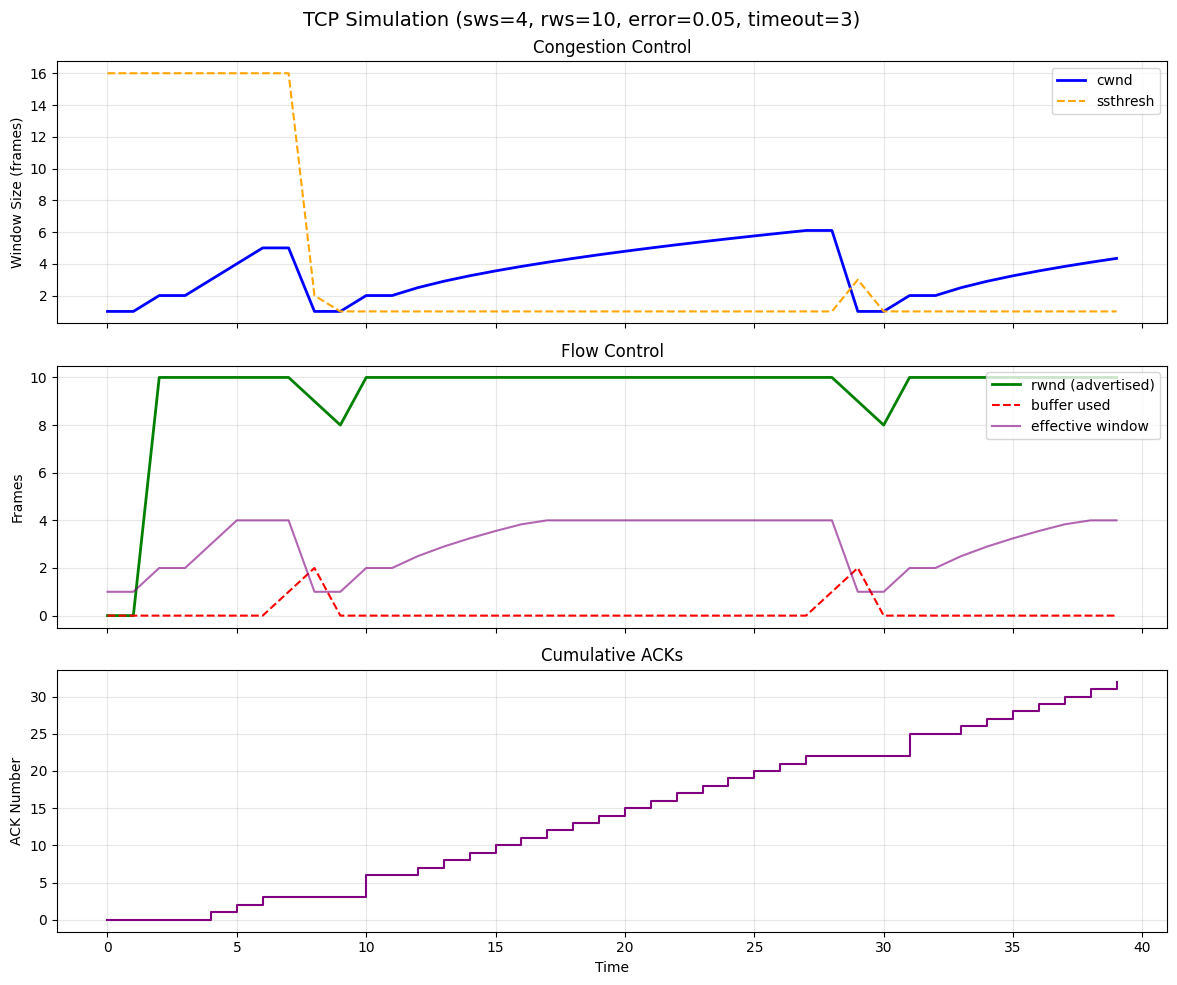
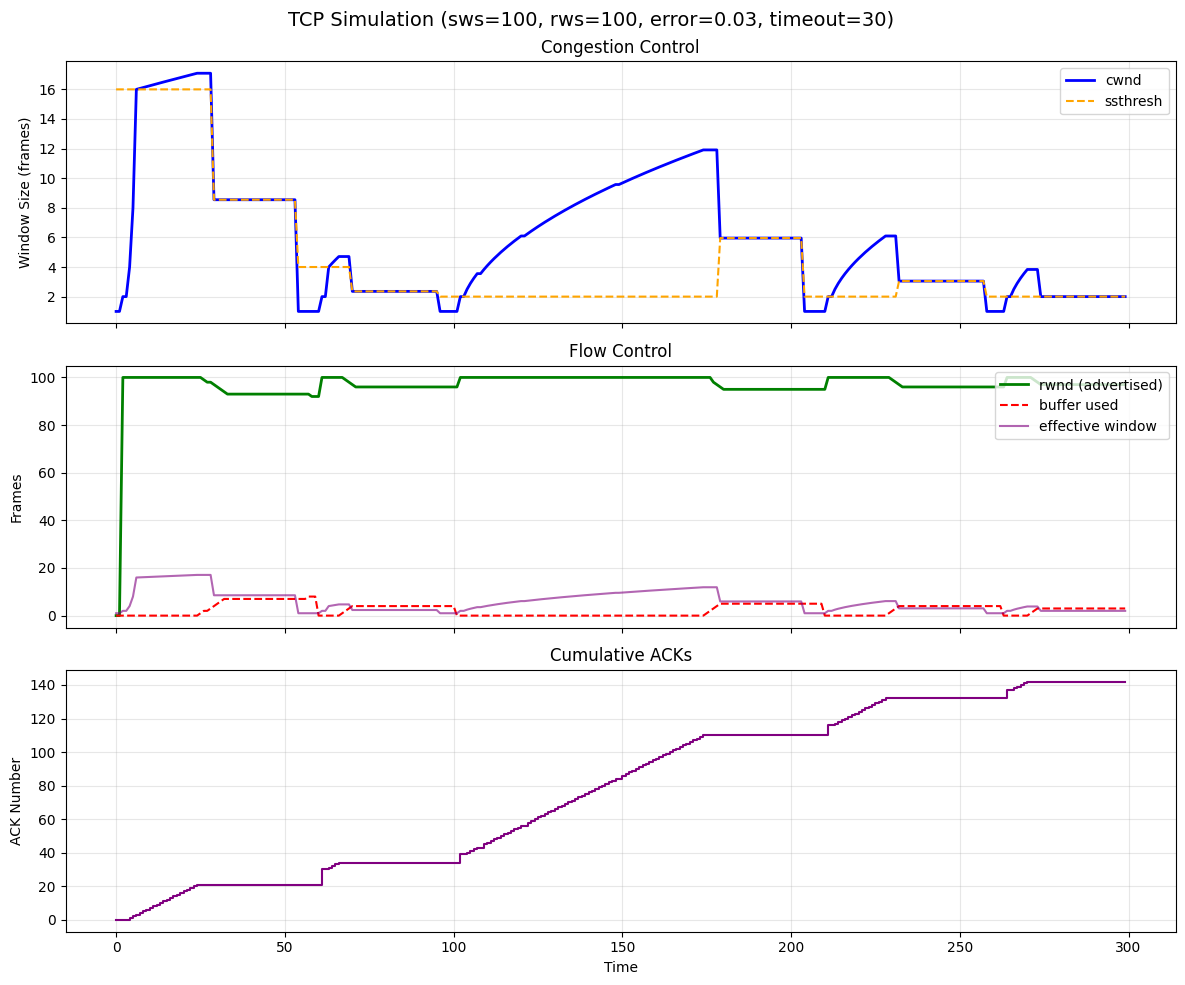
Updated cwnd Growth

diff --git a/programs/tcp_simulation.py b/programs/tcp_simulation.py
@@ -102,7 +102,7 @@ class SenderNode:
 
             # Congestion state 'slow_start', congestion window grows exponentially
             if self.state == "slow_start":
-                self.cwnd += 1  # Increment congestion window size by 1, doubling every RTT
+                self.cwnd *= 2  # Increment congestion window size by 1, doubling every RTT
 
                 # If threshold is reached, transition to congestion state 'avoidance'
                 if self.cwnd >= self.ssthresh: